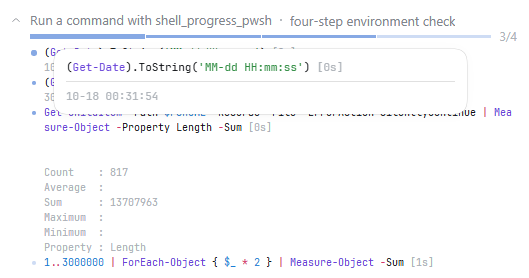
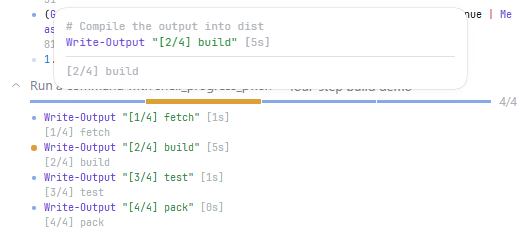
test(e2e): shoot the figures from cleaner output and a noted hover card
The demo command's `Measure-Object -Property Length -Sum` drew three blank rows in
the running figure, which reads as broken output rather than as a result; that step
now prints a single file count.

The hover figure is taken from a SETTLED card that carries notes. A live run has no
model in the fixture, so its hover card would show no annotation while the README
beside it describes one; the settled card is published in the OPEN turn because the
first turn is folded away in the figure context, and its notes are seeded in the
host's language so the English figure stays English.

The single-line run now sleeps 45s instead of 20: the two figure boots moved the
check that reads its segment in flight past the old end of the run.

Changed region(s): [[0.0302, 0.0, 0.9981, 0.9706], [0.5444, 0.9118, 0.8166, 0.9706]]

diff --git a/e2e/card.spec.ts b/e2e/card.spec.ts
@@ -44,6 +44,12 @@ import {
 /** The fixture's own id and the call ids it publishes. */
 const SESSION_ID = 'e2e-shell-progress'
 const PROGRESS_CALL = 'call-progress-1'
+/**
+ * The settled card the README's HOVER figure is shot from. A second settled card, published
+ * in the OPEN turn: the first turn is folded away in the figure context, and a card that is
+ * not on screen cannot be hovered.
+ */
+const FIGURE_CALL = 'call-figure-hover-1'
 const NATIVE_CALL = 'call-pwsh-1'
 /** A call whose turn never ends, so its card renders in the RUNNING arm. */
 const RUNNING_CALL = 'call-running-1'
@@ -1320,13 +1326,13 @@ test.describe('the shell_progress card in a real shell', () => {
       const englishHost = await startHost(dsh!, englishFixture.home, englishFixture.workspace, englishFixture.logFile, [
         '--patch',
         join(repoRoot, 'e2e', 'fixtures', 'profile.patch.yml'),
-      ])
+      ], 'en')
       try {
         const englishSession = await waitForMarker(englishHost.logFile, MARKER, 60_000)
         expect(englishSession, `the English fixture never announced its session:\n${tail(englishHost.logFile)}`).toBe(SESSION_ID)
         const english = await captureFigure(
           browser, englishHost.url, englishSession!, 'en-US', LIVE_CALL, README_SHOT, README_HOVER_SHOT,
-          'Run a command with shell_progress_pwsh',
+          FIGURE_CALL, 'Run a command with shell_progress_pwsh',
         )
         console.log(`[e2e] figure en ${JSON.stringify(english)}`)
       } finally {
@@ -1341,13 +1347,13 @@ test.describe('the shell_progress card in a real shell', () => {
       const chineseHost = await startHost(dsh!, chineseFixture.home, chineseFixture.workspace, chineseFixture.logFile, [
         '--patch',
         join(repoRoot, 'e2e', 'fixtures', 'profile.patch.yml'),
-      ])
+      ], 'zh')
       try {
         const chineseSession = await waitForMarker(chineseHost.logFile, MARKER, 60_000)
         expect(chineseSession, `the Chinese fixture never announced its session:\n${tail(chineseHost.logFile)}`).toBe(SESSION_ID)
         const chinese = await captureFigure(
           browser, chineseHost.url, chineseSession!, 'zh-CN', LIVE_CALL_ZH, README_SHOT_ZH, README_HOVER_SHOT_ZH,
-          '使用 shell_progress_pwsh 运行命令',
+          FIGURE_CALL, '使用 shell_progress_pwsh 运行命令',
         )
         console.log(`[e2e] figure zh ${JSON.stringify(chinese)}`)
       } finally {
@@ -1525,6 +1531,11 @@ test.describe('the shell_progress card in a real shell', () => {
  *   next. Setting both removes the race instead of betting on one side of it.
  * @param callId - the live call whose card is photographed.
  * @param path - where the PNG goes.
+ * @param hoverPath - where the hover-card figure goes.
+ * @param hoverCallId - the SETTLED call whose segment is hovered for that figure. It is a
+ *   different card from `callId` on purpose: a live run's notes come from a model the
+ *   fixture host does not have, so a hover figure of the live card would show no note while
+ *   the README beside it says there is one. The settled record carries the seeded notes.
  * @param titleText - the title text to WAIT for before shooting: the card's title is the
  *   shell's, and the stored `locale.preference` replaces the client's provisional
  *   browser-derived language once the plugin activates, so the wrong one is on screen
@@ -1539,6 +1550,7 @@ async function captureFigure(
   callId: string,
   path: string,
   hoverPath: string,
+  hoverCallId: string,
   titleText: string,
 ): Promise<{ readonly title: string; readonly width: number }> {
   const context = await browser.newContext({ locale, viewport: { width: README_FIGURE_WIDTH, height: 900 } })
@@ -1566,15 +1578,32 @@ async function captureFigure(
     await expect(card, `${callId}'s card never took its ${titleText} title`).toContainText(titleText, { timeout: 30_000 })
     mkdirSync(dirname(path), { recursive: true })
     await card.screenshot({ path, animations: 'disabled' })
-    // The hover card, same moment, same context: a UNION crop, because the card is
-    // portaled out of the row (see `README_HOVER_SHOT`) and `card.screenshot` would clip
-    // the tooltip away entirely.
-    await card.locator('[role="progressbar"] [data-phase]').first().hover({ timeout: 10_000 })
+    // The hover figure, from the SETTLED card: its notes are part of the record, and the
+    // README says the hover card carries one. A UNION crop, because the card is portaled out
+    // of the row (see `README_HOVER_SHOT`) and `card.screenshot` would clip the tooltip away.
+    const hoverTarget = page.locator(`[data-chat-call-id="${hoverCallId}"]`)
+    await expect(hoverTarget, `the fixture never rendered ${hoverCallId}`).toBeAttached({ timeout: 90_000 })
+    // The settled card lives in an EARLIER turn, and the shell may have that turn folded away
+    // by the time the live figure has been shot: unfold it and open the card, or its bar is
+    // attached but not visible and the hover can never land.
+    await expandTranscript(page)
+    await hoverTarget.getByText('shell_progress').first().click({ timeout: 10_000 }).catch(() => {})
+    await revealCard(hoverTarget)
+    // The SECOND segment, not the first: it carries a note, and its card opens INSIDE the
+    // card's own area — hovering the first one puts the card above the row and the crop then
+    // pulls in whatever card sits above it.
+    const hoverSegment = hoverTarget.locator('[role="progressbar"] [data-phase]').nth(1)
+    await expect(hoverSegment, `${hoverCallId}'s bar is not on screen`).toBeVisible({ timeout: 10_000 })
+    await hoverSegment.hover({ timeout: 10_000 })
     const portal = page.locator('body > div:has(> [data-step-card])').first()
-    await expect(portal, `${callId}'s segment opened no hover card`).toBeVisible({ timeout: 10_000 })
-    const cardBox = await card.boundingBox()
+    await expect(portal, `${hoverCallId}'s segment opened no hover card`).toBeVisible({ timeout: 10_000 })
+    await expect(
+      portal.locator('[data-card-note="true"]'),
+      `${hoverCallId}'s hover card shows no note, so the figure would not show one either`,
+    ).toBeVisible({ timeout: 10_000 })
+    const cardBox = await hoverTarget.boundingBox()
     const portalBox = await portal.boundingBox()
-    if (cardBox === null || portalBox === null) throw new Error(`${callId}: the hover shot has no box to crop to`)
+    if (cardBox === null || portalBox === null) throw new Error(`${hoverCallId}: the hover shot has no box to crop to`)
     const pad = 8
     const left = Math.max(0, Math.min(cardBox.x, portalBox.x) - pad)
     const top = Math.max(0, Math.min(cardBox.y, portalBox.y) - pad)

diff --git a/e2e/helpers/host.ts b/e2e/helpers/host.ts
@@ -143,6 +143,9 @@ async function canBind(port: number): Promise<boolean> {
  *   app's own flags: `--patch` belongs to the profile layer, while the app
  *   passes unknown options straight through and rejects them. Placing them
  *   before `web` instead makes the CLI demand an explicit `--profile`.
+ * @param locale - the interface language the child should boot in, exported as
+ *   `DSH_E2E_LOCALE` so a fixture can publish strings (annotations, summaries) in THAT
+ *   language. Omitted when the fixture's own default applies.
  * @returns the booted host.
  */
 export async function startHost(
@@ -151,6 +154,7 @@ export async function startHost(
   workspace: string,
   logFile: string,
   extraArgs: readonly string[] = [],
+  locale?: string,
 ): Promise<Host> {
   const port = await freePort()
   const fd = openSync(logFile, 'a')
@@ -159,7 +163,12 @@ export async function startHost(
     [...dsh.prefix, 'web', ...extraArgs, '--host', '127.0.0.1', '--port', String(port), '--no-open'],
     {
       cwd: workspace,
-      env: { ...process.env, DSH_HOME: home, DSH_E2E_WORKSPACE: workspace },
+      env: {
+        ...process.env,
+        DSH_HOME: home,
+        DSH_E2E_WORKSPACE: workspace,
+        ...(locale === undefined ? {} : { DSH_E2E_LOCALE: locale }),
+      },
       stdio: ['ignore', fd, fd],
       windowsHide: true,
     },

diff --git a/README.md b/README.md
@@ -28,7 +28,7 @@ now**, as a segmented progress bar inside the tool-call card.
 
 Collapsed, the card's summary row carries a segmented bar, one segment per top-level step (pending, running or done), beside a `3/4` counter, so where the command is and how many steps are left read at a glance. Hover a segment and it opens that step's card, showing its command line, its output and its time.
 
-![The card a segment opens on hover: that step's own command line, its output and its time](https://raw.githubusercontent.com/9087/dsh-shell-progress/main/docs/assets/hover.png)
+![The card a segment opens on hover: a line of prose above the command, then that step's output and time](https://raw.githubusercontent.com/9087/dsh-shell-progress/main/docs/assets/hover.png)
 
 In the hover card, each step gets a one-line comment above its command line, spelling out what that line is for: written in the current interface language, with the command's own strings left exactly as they are. (The lines come from the model, which costs one extra call per command; they can be switched off on the DSH Settings page under "Shell Progress" and are on by default.)
 

diff --git a/README.zh.md b/README.zh.md
@@ -25,7 +25,7 @@
 
 卡片收起时也在标题行上显示一排分段进度条，一段对应一个顶层步骤，每段是「待执行 / 执行中 / 已完成」三种状态之一，旁边是 `3/4` 这样的计数，不展开卡片就能看出命令跑到哪了、还剩几步。悬停任意一段，弹出该步卡片，显示了对应的命令行、输出和耗时。
 
-![悬停第一段时弹出的卡片：该步自己的命令行（带语法高亮）、它的输出和耗时](https://raw.githubusercontent.com/9087/dsh-shell-progress/main/docs/assets/hover.zh.png)
+![悬停第一段时弹出的卡片：命令行上方一行说明，下面是该步的输出和耗时](https://raw.githubusercontent.com/9087/dsh-shell-progress/main/docs/assets/hover.zh.png)
 
 悬停卡片会在命令行上方以注释的形式写一句该步骤的说明，帮助理解这条命令的意图：说明用当前界面语言书写，命令里的字符串保持原样。（该说明由模型生成，每条命令会多一次模型调用；可在 DSH 设置页的「命令进度」里关掉，默认开启。）
 
